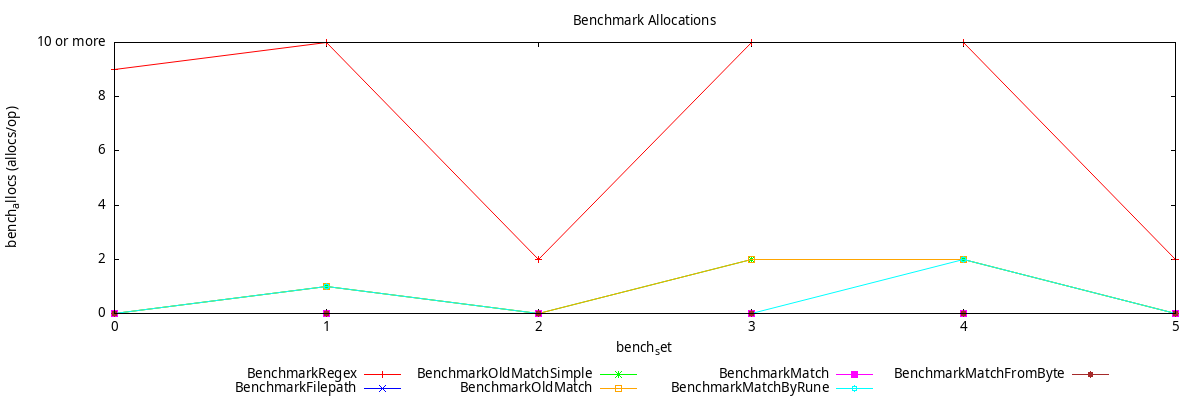
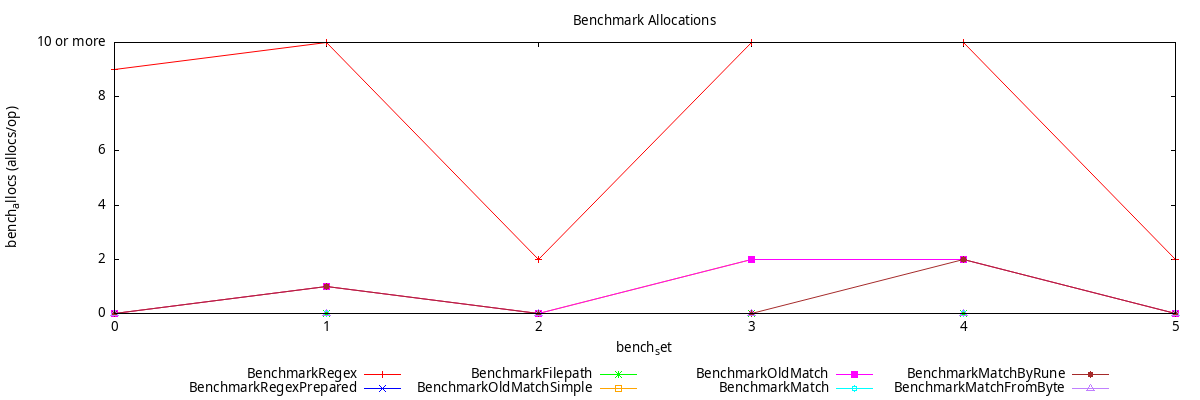
🧪 test(benchmark): add BenchmarkRegexPrepared to isolate regexp compilation cost

diff --git a/benchmark/wildcard_bench_test.go b/benchmark/wildcard_bench_test.go
@@ -31,6 +31,31 @@ func BenchmarkRegex(b *testing.B) {
 	}
 }
 
+// BenchmarkRegexPrepared measures matching against a regexp compiled once,
+// ahead of the loop. Unlike BenchmarkRegex — which recompiles the pattern on
+// every call — this isolates the cost of regexp.Regexp.MatchString alone.
+//
+// WARNING: a prepared regex is NOT a fair single-shot comparison. It only pays
+// off when the same pattern is reused many times, because the compilation cost
+// (often the dominant term) is amortised away here. Read this as a best case
+// for regexp, not as an apples-to-apples comparison with wildcard.Match, which
+// does its full work on every call.
+func BenchmarkRegexPrepared(b *testing.B) {
+	for i, t := range TestSet {
+		b.Run(fmt.Sprint(i), func(b *testing.B) {
+			re, err := regexp.Compile(t.pattern)
+			if err != nil {
+				b.Skipf("pattern is not a valid regexp: %v", err)
+			}
+
+			b.ResetTimer()
+			for i := 0; i < b.N; i++ {
+				re.MatchString(t.input)
+			}
+		})
+	}
+}
+
 func BenchmarkFilepath(b *testing.B) {
 	for i, t := range TestSet {
 		b.Run(fmt.Sprint(i), func(b *testing.B) {

diff --git a/README.md b/README.md
@@ -58,6 +58,7 @@ cpu: AMD Ryzen 7 PRO 6850U with Radeon Graphics
 
 The tested functions are:
 - regexp.MatchString
+- regexp.MatchPreparedString
 - filepath.Match
 - oldMatchSimple `From the commit a899be92514ed08aa5271bc3b93320b719ce2114`
 - oldMatch `From the commit a899be92514ed08aa5271bc3b93320b719ce2114`
